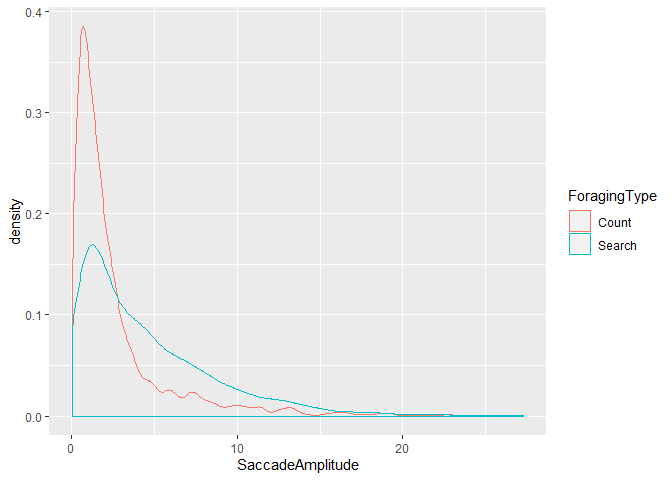
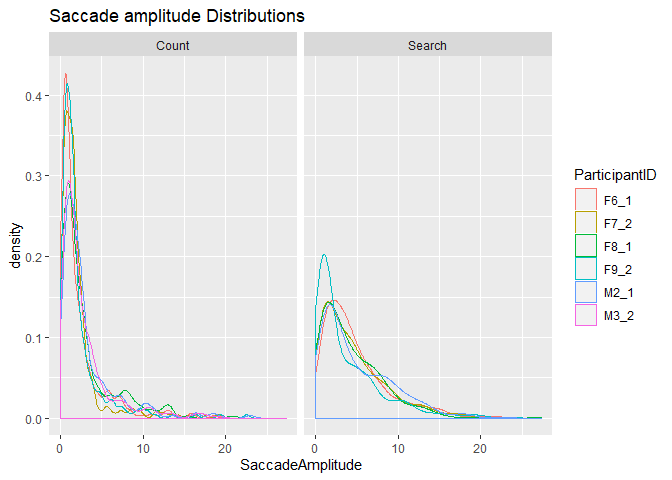
Finished Script (I think)

diff --git a/CompMod1.md b/CompMod1.md
@@ -77,6 +77,7 @@ Sac_Amplitude = col_double())) %>%
 ```
 
 ``` r
+#isolating the one guy
 unique(samples$ParticipantID)
 ```
 
@@ -86,43 +87,19 @@ unique(samples$ParticipantID)
 ``` r
 x = subset(samples, ParticipantID ==    'M2_1' & Trial == 5)
 
-filter(samples, ParticipantID == "M2_1" & Trial == 5)
-```
 
-    ## # A tibble: 10,590 x 33
-    ##    ParticipantID ParticipantGend~ EyeTracked Task  SearchOrder ForagingType
-    ##    <chr>         <chr>            <chr>      <chr>       <dbl> <chr>       
-    ##  1 M2_1          Male             Left       Fora~           1 Search      
-    ##  2 M2_1          Male             Left       Fora~           1 Search      
-    ##  3 M2_1          Male             Left       Fora~           1 Search      
-    ##  4 M2_1          Male             Left       Fora~           1 Search      
-    ##  5 M2_1          Male             Left       Fora~           1 Search      
-    ##  6 M2_1          Male             Left       Fora~           1 Search      
-    ##  7 M2_1          Male             Left       Fora~           1 Search      
-    ##  8 M2_1          Male             Left       Fora~           1 Search      
-    ##  9 M2_1          Male             Left       Fora~           1 Search      
-    ## 10 M2_1          Male             Left       Fora~           1 Search      
-    ## # ... with 10,580 more rows, and 27 more variables: Trial <dbl>,
-    ## #   Stimulus <chr>, Video <chr>, Time <dbl>, GazeX <dbl>, GazeY <dbl>,
-    ## #   PupilSize <dbl>, FixationNo <dbl>, Fix_StartTime <dbl>, Fix_EndTime <dbl>,
-    ## #   Fix_Duration <dbl>, Fix_MeanX <dbl>, Fix_MeanY <dbl>,
-    ## #   Fix_MeanPupilSize <dbl>, SaccadeNo <dbl>, Sac_StartTime <dbl>,
-    ## #   Sac_EndTime <dbl>, Sac_Duration <dbl>, Sac_StartX <dbl>, Sac_StartY <dbl>,
-    ## #   Sac_EndX <dbl>, Sac_EndY <dbl>, Sac_PeakVelocity <dbl>,
-    ## #   Sac_MeanVelocity <dbl>, Sac_Blink <lgl>, Sac_Direction <chr>,
-    ## #   Sac_Amplitude <dbl>
 
-``` r
-## Let's make a summary dataset
+##creating summary dataset of one data point for one saccade and quick visualization
 Fix <- x[!is.na(x$FixationNo),] %>% 
   group_by(FixationNo) %>% # since I only have one participant and one trial
   summarise(MeanX = Fix_MeanX[1], MeanY = Fix_MeanY[1], Duration = Fix_Duration[1]) %>% 
   filter(Duration>=300) # only keep fixations > 300 ms
 
+#preparing image
 img <- jpeg::readJPEG('stimuli_Foraging/birds.jpg')  
 img <- grid::rasterGrob(img, width=unit(1, "npc"), height = unit(1,"npc"),
                         interpolate = FALSE)
-
+#scan path
 ggplot(Fix, aes(MeanX, MeanY, color = Fix$FixationNo)) + 
   annotation_custom(img, xmin = 0, xmax = 1680, ymin = 0, ymax = 1050) +
   # hacky way to adjust opacity of background picture:
@@ -136,6 +113,7 @@ ggplot(Fix, aes(MeanX, MeanY, color = Fix$FixationNo)) +
 ![](CompMod1_files/figure-gfm/unnamed-chunk-1-1.png)<!-- -->
 
 ``` r
+##creating summary dataset of one data point for one saccade and quick visualization
 saccades <- samples[!is.na(samples$SaccadeNo) & samples$Task == "Foraging",] %>% 
   group_by(ParticipantID, Trial, SaccadeNo) %>% 
   summarise(SaccadeAmplitude = mean(Sac_Amplitude), ForagingType = ForagingType[1], Stimulus = Stimulus[1]) %>% 
@@ -156,82 +134,32 @@ head(saccades)
     ## 6 F6_1              1         6            21.4  Search       sheep.jpg
 
 ``` r
-ggplot(saccades, aes(SaccadeAmplitude, color = ForagingType)) + geom_density()
+Saccades <- saccades
+
+#better density plots
+ggplot(saccades, aes(SaccadeAmplitude, color = ParticipantID)) + geom_density()+facet_wrap(~ForagingType)+ggtitle("Saccade amplitude Distributions")
 ```
 
 ![](CompMod1_files/figure-gfm/unnamed-chunk-2-1.png)<!-- -->
 
 ``` r
-mGaus <-
-  glmer(
-    SaccadeAmplitude ~ ForagingType + (1 + ForagingType |
-                                         ParticipantID) + (1 + ForagingType | Stimulus),
-    family = gaussian(link = "identity"),
-    data = saccades
-  )
-```
-
-    ## Warning in glmer(SaccadeAmplitude ~ ForagingType + (1 + ForagingType |
-    ## ParticipantID) + : calling glmer() with family=gaussian (identity link) as a
-    ## shortcut to lmer() is deprecated; please call lmer() directly
-
-``` r
-mLog <-
-  glmer(
-    SaccadeAmplitude ~ ForagingType + (1 + ForagingType |
-                                         ParticipantID) + (1 + ForagingType | Stimulus),
-    family = gaussian(link = "log"),
-    data = saccades
-  )
+## comparing normal and log models
+m_log <- glmer(SaccadeAmplitude ~ 1 + ForagingType + (ForagingType|ParticipantID) + (ForagingType|Stimulus), data = Saccades, family = gaussian(link="log" ))
 ```
 
     ## boundary (singular) fit: see ?isSingular
 
 ``` r
-summary(mGaus)
-```
-
-    ## Linear mixed model fit by REML ['lmerMod']
-    ## Formula: 
-    ## SaccadeAmplitude ~ ForagingType + (1 + ForagingType | ParticipantID) +  
-    ##     (1 + ForagingType | Stimulus)
-    ##    Data: saccades
-    ## 
-    ## REML criterion at convergence: 20364.2
-    ## 
-    ## Scaled residuals: 
-    ##     Min      1Q  Median      3Q     Max 
-    ## -1.5220 -0.6237 -0.2889  0.3112  6.1997 
-    ## 
-    ## Random effects:
-    ##  Groups        Name               Variance Std.Dev. Corr 
-    ##  Stimulus      (Intercept)         0.2151  0.4638        
-    ##                ForagingTypeSearch  0.7719  0.8786   -0.60
-    ##  ParticipantID (Intercept)         0.1318  0.3631        
-    ##                ForagingTypeSearch  0.2913  0.5397   -0.61
-    ##  Residual                         12.9688  3.6012        
-    ## Number of obs: 3762, groups:  Stimulus, 10; ParticipantID, 6
-    ## 
-    ## Fixed effects:
-    ##                    Estimate Std. Error t value
-    ## (Intercept)          2.5358     0.2274  11.153
-    ## ForagingTypeSearch   1.8753     0.3838   4.887
-    ## 
-    ## Correlation of Fixed Effects:
-    ##             (Intr)
-    ## FrgngTypSrc -0.601
-
-``` r
-summary(mLog)
+summary(m_log)
 ```
 
     ## Generalized linear mixed model fit by maximum likelihood (Laplace
     ##   Approximation) [glmerMod]
     ##  Family: gaussian  ( log )
     ## Formula: 
-    ## SaccadeAmplitude ~ ForagingType + (1 + ForagingType | ParticipantID) +  
-    ##     (1 + ForagingType | Stimulus)
-    ##    Data: saccades
+    ## SaccadeAmplitude ~ 1 + ForagingType + (ForagingType | ParticipantID) +  
+    ##     (ForagingType | Stimulus)
+    ##    Data: Saccades
     ## 
     ##      AIC      BIC   logLik deviance df.resid 
     ##  20434.4  20490.5 -10208.2  20416.4     3753 
@@ -263,19 +191,160 @@ summary(mLog)
     ## boundary (singular) fit: see ?isSingular
 
 ``` r
-pm1 <- predict(mGaus)
-pm2 <- predict(mLog)
+m_id <- glmer(SaccadeAmplitude ~ 1 + ForagingType + (ForagingType|ParticipantID) + (ForagingType|Stimulus), data = Saccades, family = gaussian(link="identity" ))
+```
 
-plot(density(pm1))
+    ## Warning in glmer(SaccadeAmplitude ~ 1 + ForagingType + (ForagingType |
+    ## ParticipantID) + : calling glmer() with family=gaussian (identity link) as a
+    ## shortcut to lmer() is deprecated; please call lmer() directly
+
+``` r
+summary(m_id)
+```
+
+    ## Linear mixed model fit by REML ['lmerMod']
+    ## Formula: 
+    ## SaccadeAmplitude ~ 1 + ForagingType + (ForagingType | ParticipantID) +  
+    ##     (ForagingType | Stimulus)
+    ##    Data: Saccades
+    ## 
+    ## REML criterion at convergence: 20364.2
+    ## 
+    ## Scaled residuals: 
+    ##     Min      1Q  Median      3Q     Max 
+    ## -1.5220 -0.6237 -0.2889  0.3112  6.1997 
+    ## 
+    ## Random effects:
+    ##  Groups        Name               Variance Std.Dev. Corr 
+    ##  Stimulus      (Intercept)         0.2151  0.4638        
+    ##                ForagingTypeSearch  0.7719  0.8786   -0.60
+    ##  ParticipantID (Intercept)         0.1318  0.3631        
+    ##                ForagingTypeSearch  0.2913  0.5397   -0.61
+    ##  Residual                         12.9688  3.6012        
+    ## Number of obs: 3762, groups:  Stimulus, 10; ParticipantID, 6
+    ## 
+    ## Fixed effects:
+    ##                    Estimate Std. Error t value
+    ## (Intercept)          2.5358     0.2274  11.153
+    ## ForagingTypeSearch   1.8753     0.3838   4.887
+    ## 
+    ## Correlation of Fixed Effects:
+    ##             (Intr)
+    ## FrgngTypSrc -0.601
+
+``` r
+# exponentiating to get back to the relevant scale
+exp(0.927+0.538) - exp(0.927)
+```
+
+    ## [1] 1.800626
+
+``` r
+exp(0.07907)
+```
+
+    ## [1] 1.08228
+
+``` r
+exp(0.538)
+```
+
+    ## [1] 1.712578
+
+``` r
+exp(0.927+0.538) - exp(0.538)
+```
+
+    ## [1] 2.614965
+
+``` r
+## plotting and comparing results
+plot(residuals(m_log)) + plot(residuals(m_id))
+```
+
+![](CompMod1_files/figure-gfm/unnamed-chunk-3-1.png)<!-- -->![](CompMod1_files/figure-gfm/unnamed-chunk-3-2.png)<!-- -->
+
+    ## integer(0)
+
+``` r
+plot(predict(m_log)) + plot(predict(m_id))
+```
+
+![](CompMod1_files/figure-gfm/unnamed-chunk-3-3.png)<!-- -->![](CompMod1_files/figure-gfm/unnamed-chunk-3-4.png)<!-- -->
+
+    ## integer(0)
+
+``` r
+plot(density(predict(m_log))) + plot(density(predict(m_id)))
+```
+
+![](CompMod1_files/figure-gfm/unnamed-chunk-3-5.png)<!-- -->![](CompMod1_files/figure-gfm/unnamed-chunk-3-6.png)<!-- -->
+
+    ## integer(0)
+
+``` r
+## assessing model's fit 
+dGaus <- DHARMa::simulateResiduals(m_log, n=250)
+```
+
+    ## Model family was recognized or set as continuous, but duplicate values were detected in the response. Consider if you are fitting an appropriate model.
+
+``` r
+dlog <- DHARMa::simulateResiduals(m_id)
+```
+
+    ## Model family was recognized or set as continuous, but duplicate values were detected in the response. Consider if you are fitting an appropriate model.
+
+``` r
+plot(dGaus)
+```
+
+![](CompMod1_files/figure-gfm/unnamed-chunk-3-7.png)<!-- -->
+
+``` r
+plot(dlog)
+```
+
+![](CompMod1_files/figure-gfm/unnamed-chunk-3-8.png)<!-- -->
+
+``` r
+plot(density(Saccades$SaccadeNo))
+```
+
+![](CompMod1_files/figure-gfm/unnamed-chunk-3-9.png)<!-- -->
+
+``` r
+summary(abs(predict(m_log)- Saccades$SaccadeAmplitude))
+```
+
+    ##      Min.   1st Qu.    Median      Mean   3rd Qu.      Max. 
+    ##  0.001323  0.476693  1.093307  2.685675  3.634608 25.720308
+
+``` r
+r.squaredGLMM(m_log)
+```
+
+    ## Warning: 'r.squaredGLMM' now calculates a revised statistic. See the help page.
+
+    ##              R2m       R2c
+    ## [1,] 0.005284715 0.0269386
+
+``` r
+r.squaredGLMM(m_id)
+```
+
+    ##             R2m        R2c
+    ## [1,] 0.06001942 0.09753909
+
+``` r
+saccadesModelData2 <- saccades %>% 
+  group_by(ForagingType) %>% 
+  summarise(MeanSaccadeAmplitude = mean(SaccadeAmplitude))
+
+ggplot(saccades, aes(ForagingType, SaccadeAmplitude,color=SaccadeNo)) + geom_point() + geom_abline(intercept = 2.5358, slope = 1.8753)+geom_jitter()
 ```
 
 ![](CompMod1_files/figure-gfm/unnamed-chunk-4-1.png)<!-- -->
-
-``` r
-plot(density(saccades$SaccadeAmplitude))
-```
-
-![](CompMod1_files/figure-gfm/unnamed-chunk-4-2.png)<!-- -->
 
 ``` r
 #Isolating the Social Engagement Data
@@ -384,8 +453,6 @@ plot(pupilSim )
 ``` r
 r.squaredGLMM(pupilModel)
 ```
-
-    ## Warning: 'r.squaredGLMM' now calculates a revised statistic. See the help page.
 
     ##             R2m       R2c
     ## [1,] 0.01399353 0.8652069
